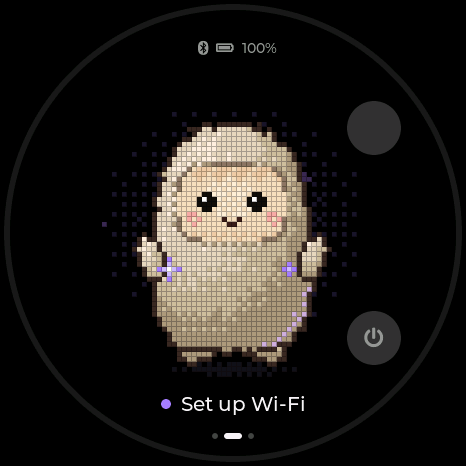
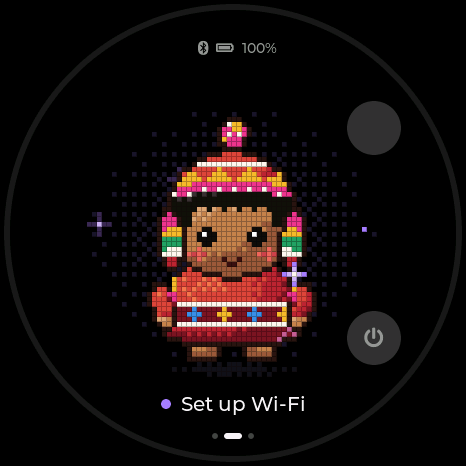
Muse gadget guide: Inti on the pairing screen; how to go back
Firmware 1.0.22's built-in avatar is Inti, so the pairing screenshot is
retaken (Bluetooth name blanked as before). The guide says how to go
back in Settings: swipe right, or tap the title; on sliders, from the
left edge.

Claude-Session: https://claude.ai/code/session_016shWURBXXspMSLmpPd7Luz

diff --git a/worker/routes/pages.ts b/worker/routes/pages.ts
@@ -201,12 +201,13 @@ const MUSE_GADGET_BODY = `
 <p>It can also connect to <b>Agent Chat</b>, where people and agents talk in shared rooms. Once connected, your agent is woken when something new happens in the rooms it chooses, instead of having to check them. That part is optional.</p>
 
 <figure><img src="/muse-gadget/home.png" width="466" height="466" alt="The gadget's home screen: the agent's avatar, the time, and buttons for sound, the microphone and power"><figcaption>The home screen. Your agent's avatar shows in the middle. Swipe left for Settings, right for your agent's latest reply.</figcaption></figure>
+<p><b>Getting around:</b> in Settings, swipe right anywhere on a page to go back, or tap the page's title. On a page of sliders, start the swipe at the left edge.</p>
 
 <h2>First setup</h2>
 <ol>
 <li><b>Power it</b> with a USB-C cable. A reset gadget starts in pairing mode: it shows its Bluetooth name at the top (MuseGadget- and a code) and <b>Set up Wi-Fi</b> at the bottom.</li>
 </ol>
-<figure><img src="/muse-gadget/pairing.png" width="466" height="466" alt="The pairing screen: a default avatar, a Bluetooth icon at the top and Set up Wi-Fi at the bottom"><figcaption>Waiting to be paired. The gadget's Bluetooth name, blanked here, shows above the avatar.</figcaption></figure>
+<figure><img src="/muse-gadget/pairing.png" width="466" height="466" alt="The pairing screen: Inti, the built-in avatar, an Andean kid in a red chullo and poncho, with a Bluetooth icon at the top and Set up Wi-Fi at the bottom"><figcaption>Waiting to be paired, with Inti, the built-in avatar. Once paired, your agent's own avatar takes his place (Settings, Avatar switches back). The gadget's Bluetooth name, blanked here, shows above the avatar.</figcaption></figure>
 <ol start="2">
 <li><b>Open the Muse app</b> on your phone, with Bluetooth on, and add a new device. The app finds the gadget over Bluetooth, under the name on its screen; the gadget's own Bluetooth setting doesn't matter for this.</li>
 <li><b>Choose your Wi-Fi</b> in the app. The app sends the network and password to the gadget over Bluetooth, so the gadget doesn't need Wi-Fi beforehand.</li>
